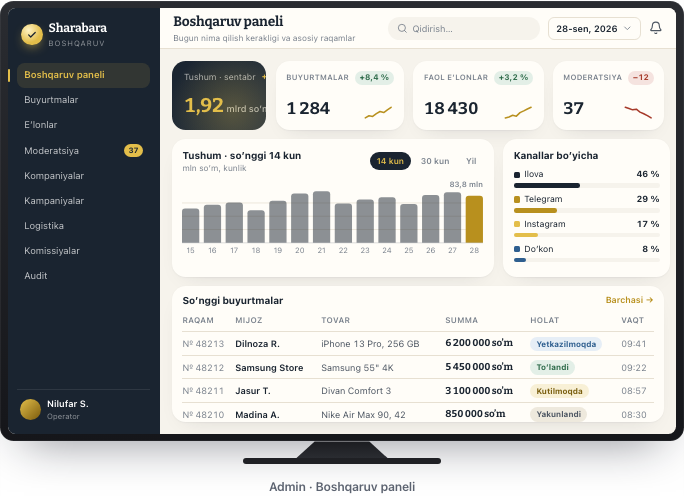
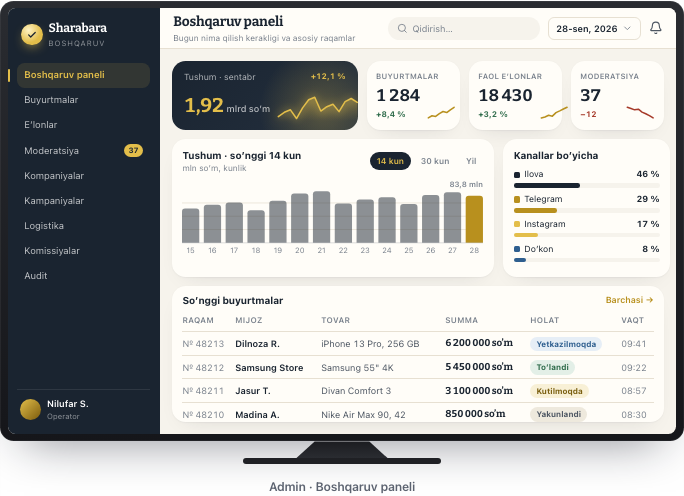
Dizayn lab D: KPI kartalari va tushum hero tuzatildi

Changed region(s): [[0.2763, 0.121, 0.7982, 0.2722], [0.7982, 0.121, 0.9518, 0.2419], [0.9211, 0.2117, 0.9518, 0.2419]]

diff --git a/src/apps/design-lab/DirectionD.tsx b/src/apps/design-lab/DirectionD.tsx
@@ -147,17 +147,20 @@ export function AdminD() {
             </Row>
           </Row>
           <div style={{ padding: 16, display: 'flex', flexDirection: 'column', gap: 12, flex: 1, minHeight: 0 }}>
-            <div style={{ display: 'grid', gridTemplateColumns: 'repeat(5, 1fr)', gap: 12 }}>
+            <div style={{ display: 'grid', gridTemplateColumns: '2fr 1fr 1fr 1fr', gap: 12 }}>
               {/* B: siyoh hero KPI — ikki ustun */}
-              <div style={{ gridColumn: 'span 2', background: `linear-gradient(135deg, ${D.ink} 0%, ${D.ink2} 100%)`, borderRadius: 18, padding: '12px 16px', color: '#fff', position: 'relative', overflow: 'hidden', height: 90, display: 'flex', flexDirection: 'column', justifyContent: 'space-between' }}>
+              <div style={{ minWidth: 0, background: `linear-gradient(135deg, ${D.ink} 0%, ${D.ink2} 100%)`, borderRadius: 18, padding: '12px 16px', color: '#fff', position: 'relative', overflow: 'hidden', height: 90, display: 'flex', flexDirection: 'column', justifyContent: 'space-between' }}>
                 <div style={{ position: 'absolute', right: -40, bottom: -60, width: 170, height: 170, borderRadius: '50%', background: 'radial-gradient(circle, rgba(227,190,74,.28), rgba(227,190,74,0) 70%)' }} />
                 <Row between><span style={{ fontSize: 11.5, color: 'rgba(255,255,255,.65)', whiteSpace: 'nowrap' }}>Tushum · sentabr</span><span style={{ fontSize: 10.5, fontWeight: 700, color: D.gold, whiteSpace: 'nowrap', ...tnum }}>+12,1 %</span></Row>
                 <Row between style={{ alignItems: 'flex-end' }}><span style={{ ...display, fontSize: 26, color: D.gold, letterSpacing: -0.8, whiteSpace: 'nowrap', ...tnum }}>1,92 <span style={{ fontSize: 12, color: 'rgba(255,255,255,.7)', fontFamily: D.font, fontWeight: 500, letterSpacing: 0 }}>mlrd so’m</span></span><Sparkline data={revenue14} color={D.gold} w={110} h={34} fill glow /></Row>
               </div>
               {kpis.filter(k => k.label !== 'Tushum').map(k => (
-                <div key={k.label} style={{ ...card, borderRadius: 18, padding: '12px 14px', height: 90, display: 'flex', flexDirection: 'column', justifyContent: 'space-between' }}>
-                  <Row between><span style={{ fontSize: 10, color: D.text3, fontWeight: 600, letterSpacing: 0.3, textTransform: 'uppercase', whiteSpace: 'nowrap', overflow: 'hidden', textOverflow: 'ellipsis', minWidth: 0 }}>{k.label}</span><span style={{ fontSize: 10.5, fontWeight: 700, color: k.up ? D.green : D.red, background: k.up ? D.greenSoft : D.redSoft, padding: '2px 6px', borderRadius: 999, whiteSpace: 'nowrap', ...tnum }}>{k.delta}</span></Row>
-                  <Row between style={{ alignItems: 'flex-end' }}><span style={{ ...display, fontSize: 22, whiteSpace: 'nowrap', ...tnum }}>{k.value}</span><Sparkline data={k.spark} color={k.up ? D.goldDeep : D.red} w={40} h={20} /></Row>
+                <div key={k.label} style={{ ...card, minWidth: 0, borderRadius: 18, padding: '12px 12px', height: 90, display: 'flex', flexDirection: 'column', justifyContent: 'space-between' }}>
+                  <span style={{ fontSize: 10, color: D.text3, fontWeight: 600, letterSpacing: 0.3, textTransform: 'uppercase', whiteSpace: 'nowrap', overflow: 'hidden', textOverflow: 'ellipsis' }}>{k.label}</span>
+                  <Row between style={{ alignItems: 'flex-end' }}>
+                    <div><span style={{ ...display, fontSize: 22, whiteSpace: 'nowrap', ...tnum }}>{k.value}</span><div style={{ fontSize: 10.5, fontWeight: 700, color: k.up ? D.green : D.red, whiteSpace: 'nowrap', marginTop: 2, ...tnum }}>{k.delta}</div></div>
+                    <Sparkline data={k.spark} color={k.up ? D.goldDeep : D.red} w={40} h={20} />
+                  </Row>
                 </div>
               ))}
             </div>
